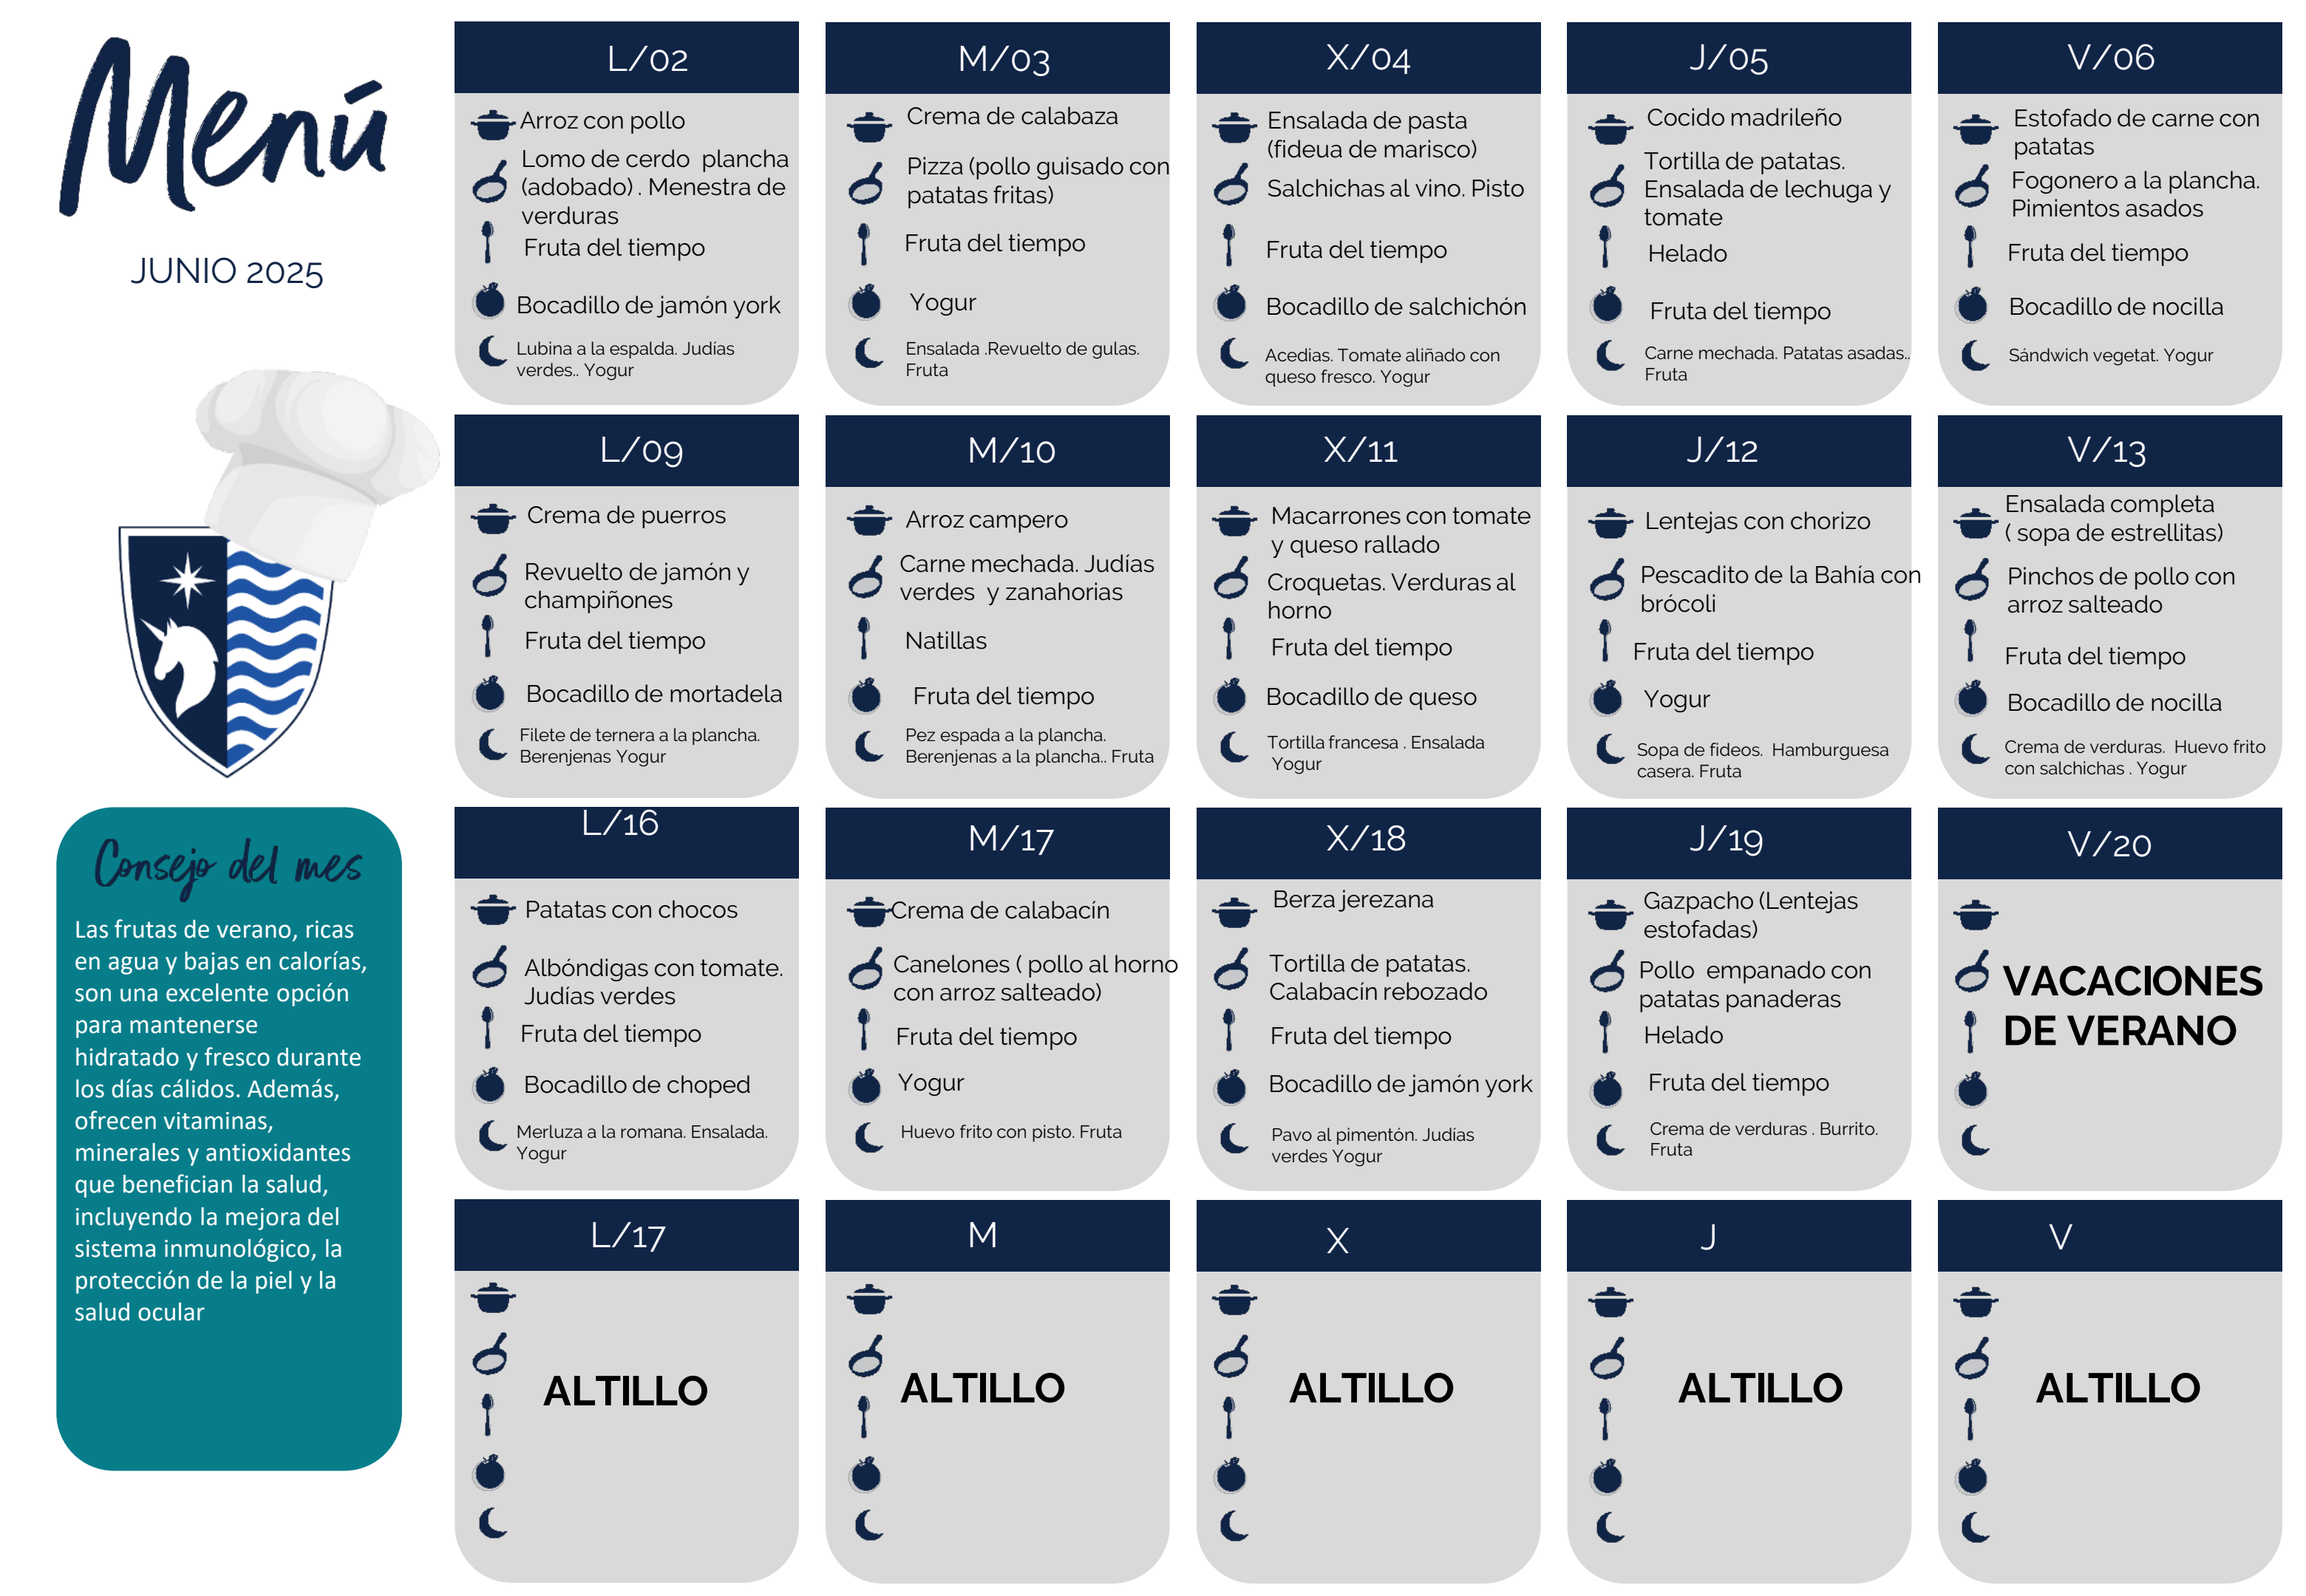
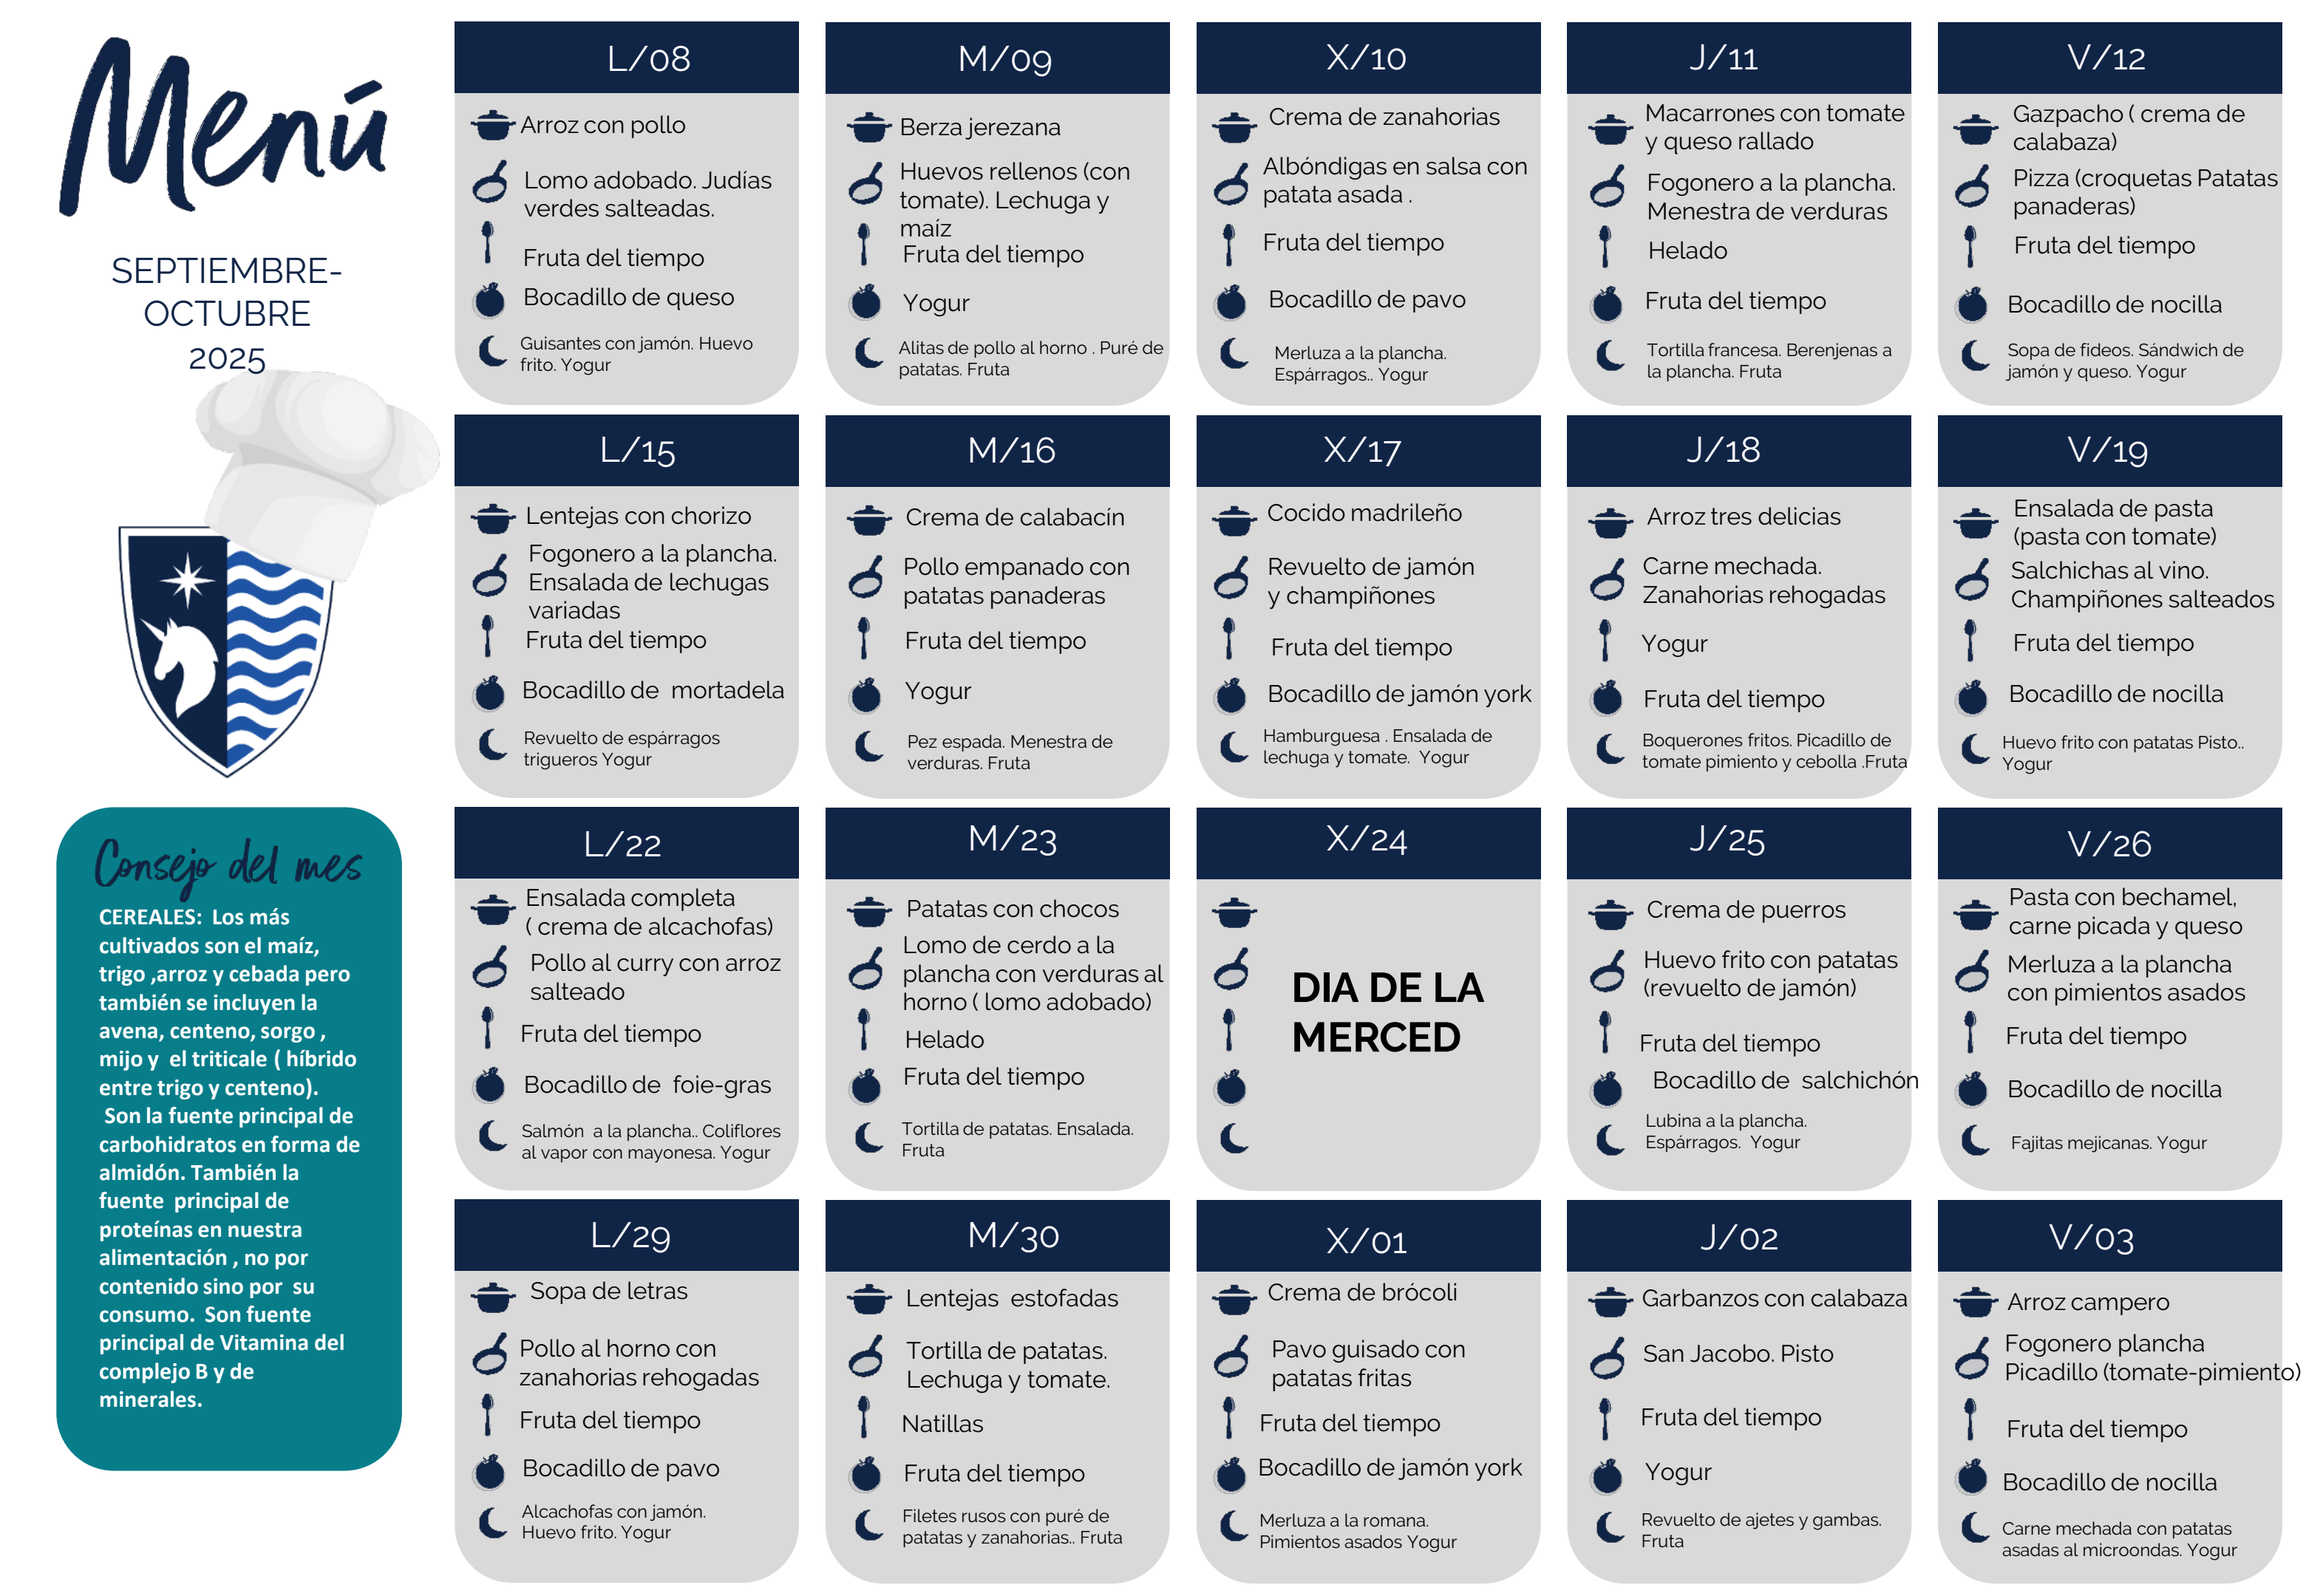
2025

diff --git a/pages/menu.html b/pages/menu.html
@@ -11,14 +11,14 @@
     <link rel="icon" href="../favicon.ico" type="image/x-icon">
     <link rel="stylesheet" href="../main.css">
     <title>Horario de 1 Bach | Raulaltillo </title>
-    <meta name="description" content="Busca aqui tu horario de clase, disponible en cualquier momento y en cualquier dispositivo" />
+    <meta name="description" content="Mira aqui el menu del dia" />
 </head>
 <body>
   <div class="topnav">
     <img class="title" id="weather-icon"  src="../images/weather-icon-illustration03-Graphics-10205167-1.png" alt="Clima actual" width="50px">
     <a href="./horario.html">Horario</a>
     <a class="active" href="#">Menu</a>
-    <a href="./book_answers.html">Respuestas Libros</a>
+    <!--<a href="./book_answers.html">Respuestas Libros</a>--->
     <a href="./selectividad.html">Selectividad</a>
     <a href="https://docs.google.com/forms/d/e/1FAIpQLSdnBjqzIB08Ad6J5D6hyBe0z33kqKwkunFWNIXyWWmJCmnFjw/viewform?usp=sf_link" class="feedback-btn">Feedback</a>
     <!--<a href="pages/coding_answers.html">Coding/CS</a>-->
@@ -32,29 +32,35 @@
   <br>
   <br>
 <center>
-  <!--<pre style="font-size: 200%;color: #ffffff;font-family: Verdana;font-weight:bold;", id="todaydata">Algo ha fallado</pre> -->
+  <pre style="font-size: 200%;color: #ffffff;font-family: Verdana;font-weight:bold;", id="todaydata">Algo ha fallado</pre>
   <img src="../images/menu.png" width="90%" style="border: solid 15px #aeaeae; border-radius: 10px;">
 </center>
 <script>
-  const menu = {
-  "Lunes 5 May": ["Macarrones con tomate y queso rallado", "Fogonero a la plancha con pimientos asados", "Fruta del tiempo"],
-  "Martes 6 May": ["Crema de calabacín", "Pizza (pollo guisado con patatas fritas)", "Fruta del tiempo"],
-  "Miércoles 7 May": ["Patatas aliñadas con atún y huevo duro (patatas con chocos)", "Lomo cerdo plancha (adobado). Verduras al horno", "Fruta del tiempo"],
-  "Jueves 8 May": ["Paella de marisco", "Huevos rellenos (con tomate) Lechuga y maíz", "Helado"],
-  "Viernes 9 May": ["Garbanzos con chorizo", "Carne mechada. Zanahorias", "Fruta del tiempo"],
-  "Lunes 12 May": ["Patatas con chocos", "Caella al limón Pisto", "Fruta del tiempo"],
-  "Martes 13 May": ["Lentejas con chorizo", "Revuelto de jamón y champiñones", "Helado"],
-  "Miércoles 14 May": ["Arroz campero", "Merluza a la plancha", "Picadillo de tomate y pimiento", "Fruta del tiempo"],
-  "Jueves 15 May": ["Ensalada completa (sopa de fideos)", "Canelones (albóndigas en salsa. Zanahorias)", "Melocotón en almíbar"],
-  "Viernes 16 May": ["Crema de zanahorias", "Pollo empanado con patatas panaderas", "Fruta del tiempo"],
-  "Lunes 20 May": ["Arroz tres delicias (con tomate)", "Fogonero a la plancha. Coliflores salteadas", "Fruta del tiempo"],
-  "Martes 21 May": ["Berza jerezana", "Tortilla de patatas. Tomate aliñado", "Fruta del tiempo"],
-  "Lunes 26 May": ["Gazpacho (cocido madrileño)", "Merluza a la plancha con patatas panaderas", "Fruta del tiempo"],
-  "Martes 27 May": ["Arroz con tomate", "Huevos rellenos. Lechuga y maíz (tortilla de patatas)", "Helado"],
-  "Miércoles 28 May": ["Espaguetis carbonara (con tomate)", "San Jacobo Pimientos asados", "Fruta del tiempo"],
-  "Jueves 29 May": ["DAHL HINDÚ DE LENTEJAS", "POLLO AL CURRY CON ARROZ", "LASSI DE PLÁTANO"],
-  "Viernes 30 May": ["Crema de puerros", "Albóndigas en salsa con zanahorias", "Fruta del tiempo"]
-  };
+const menu = {
+  "Lunes 8 Sept": ["Arroz con pollo", "Lomo adobado. Judías verdes salteadas", "Fruta del tiempo"],
+  "Martes 9 Sept": ["Berza jerezana", "Huevos rellenos (con tomate). Lechuga y maíz", "Fruta del tiempo"],
+  "Miércoles 10 Sept": ["Crema de zanahorias", "Albóndigas en salsa con patata asada", "Fruta del tiempo"],
+  "Jueves 11 Sept": ["Macarrones con tomate y queso rallado", "Fogonero a la plancha. Menestra de verduras", "Helado"],
+  "Viernes 12 Sept": ["Gazpacho (crema de calabaza)", "Pizza (croquetas). Patatas panaderas", "Fruta del tiempo"],
+
+  "Lunes 15 Sept": ["Lentejas con chorizo", "Fogonero a la plancha. Ensalada de lechugas variadas", "Fruta del tiempo"],
+  "Martes 16 Sept": ["Crema de calabacín", "Pollo empanado con patatas panaderas", "Fruta del tiempo"],
+  "Miércoles 17 Sept": ["Cocido madrileño", "Revuelto de jamón y champiñones", "Fruta del tiempo"],
+  "Jueves 18 Sept": ["Arroz tres delicias", "Carne mechada. Zanahorias rehogadas", "Yogur"],
+  "Viernes 19 Sept": ["Ensalada de pasta (pasta con tomate)", "Salchichas al vino. Champiñones salteados", "Fruta del tiempo"],
+
+  "Lunes 22 Sept": ["Ensalada completa (crema de alcachofas)", "Pollo al curry con arroz salteado", "Fruta del tiempo"],
+  "Martes 23 Sept": ["Patatas con chocos", "Lomo de cerdo a la plancha con verduras al horno (lomo adobado)", "Helado"],
+  "Jueves 25 Sept": ["Crema de puerros", "Huevo frito con patatas (revuelto de jamón)", "Fruta del tiempo"],
+  "Viernes 26 Sept": ["Pasta con bechamel, carne picada y queso", "Merluza a la plancha con pimientos asados", "Fruta del tiempo"],
+
+  "Lunes 29 Sept": ["Sopa de letras", "Pollo al horno con zanahorias rehogadas", "Fruta del tiempo"],
+  "Martes 30 Sept": ["Lentejas estofadas", "Tortilla de patatas. Lechuga y tomate", "Natillas"],
+  "Miércoles 1 Oct": ["Crema de brócoli", "Pavo guisado con patatas fritas", "Fruta del tiempo"],
+  "Jueves 2 Oct": ["Garbanzos con calabaza", "San Jacobo. Pisto", "Fruta del tiempo"],
+  "Viernes 3 Oct": ["Arroz campero", "Fogonero plancha. Picadillo (tomate–pimiento)", "Fruta del tiempo"]
+};
+
   function getFormattedDate() {
     const daysOfWeek = ["Domingo", "Lunes", "Martes", "Miércoles", "Jueves", "Viernes", "Sábado"];
     const months = ["Ene", "Feb", "Mar", "Abr", "May", "Jun", "Jul", "Ago", "Sep", "Oct", "Nov", "Dic"];

diff --git a/pages/horario.html b/pages/horario.html
@@ -33,7 +33,7 @@
     <img class="title" id="weather-icon"  src="../images/weather-icon-illustration03-Graphics-10205167-1.png" alt="Clima actual" width="50px">
     <a href="./horario.html" class="active" >Horario</a>
     <a href="./menu.html">Menu</a>
-    <a href="./book_answers.html">Respuestas Libros</a>
+    <!--<a href="./book_answers.html">Respuestas Libros</a>--->
     <a href="./selectividad.html">Selectividad</a>
     <a href="https://docs.google.com/forms/d/e/1FAIpQLSdnBjqzIB08Ad6J5D6hyBe0z33kqKwkunFWNIXyWWmJCmnFjw/viewform?usp=sf_link" class="feedback-btn">Feedback</a>
     <!--<a href="pages/coding_answers.html">Coding/CS</a>-->
@@ -42,9 +42,13 @@
     <iframe name="iframe_aemet_id33044" src="https://www.aemet.es/es/eltiempo/prediccion/municipios/mostrarwidget/jerez-de-la-frontera-id11020?w=g4p011100000ohmffffffx000000t999999r1s8n2" scrolling="no"></iframe>
   </div>
   <div id="content">
+      <br>
   <br>
   <br>
-  <br>
+  
+  <h1 style="text-align: center;color: white;font-family: Arial, Helvetica, sans-serif;font-size: 300%;">Aun falta informacion para esto!</h1>
+  <h1 style="text-align: center;color: white;font-family: Arial, Helvetica, sans-serif;font-size: 200%;">Quieres ayudar entregando tu horario? Usa <a href="https://forms.gle/T9s3GpN34AojRxGt7">este link</a></h1>
+  <!-------
   <div style="border: solid 15px #0b0b0b; border-radius: 10px; padding:20; margin:20px">
   <div id="scheduleContainer" style="display: none;">
     <div id="schedule"></div>
@@ -194,6 +198,6 @@ const classes={
         updateScheduleColors(savedColor);
     };
     </script>
-  </div>
+   -------></div>
   <script async src="../scripts/fade.js"></script>
 </body>

diff --git a/pages/selectividad.html b/pages/selectividad.html
@@ -61,7 +61,7 @@
         <img class="title" id="weather-icon"  src="../images/weather-icon-illustration03-Graphics-10205167-1.png" alt="Clima actual" width="50px">
         <a href="./horario.html">Horario</a>
         <a href="./menu.html">Menu</a>
-        <a href="./book_answers.html">Respuestas Libros</a>
+    <!--<a href="./book_answers.html">Respuestas Libros</a>--->
         <a href="#" class="active">Selectividad</a>
         <a href="https://docs.google.com/forms/d/e/1FAIpQLSdnBjqzIB08Ad6J5D6hyBe0z33kqKwkunFWNIXyWWmJCmnFjw/viewform?usp=sf_link" class="feedback-btn">Feedback</a>
       </div>
